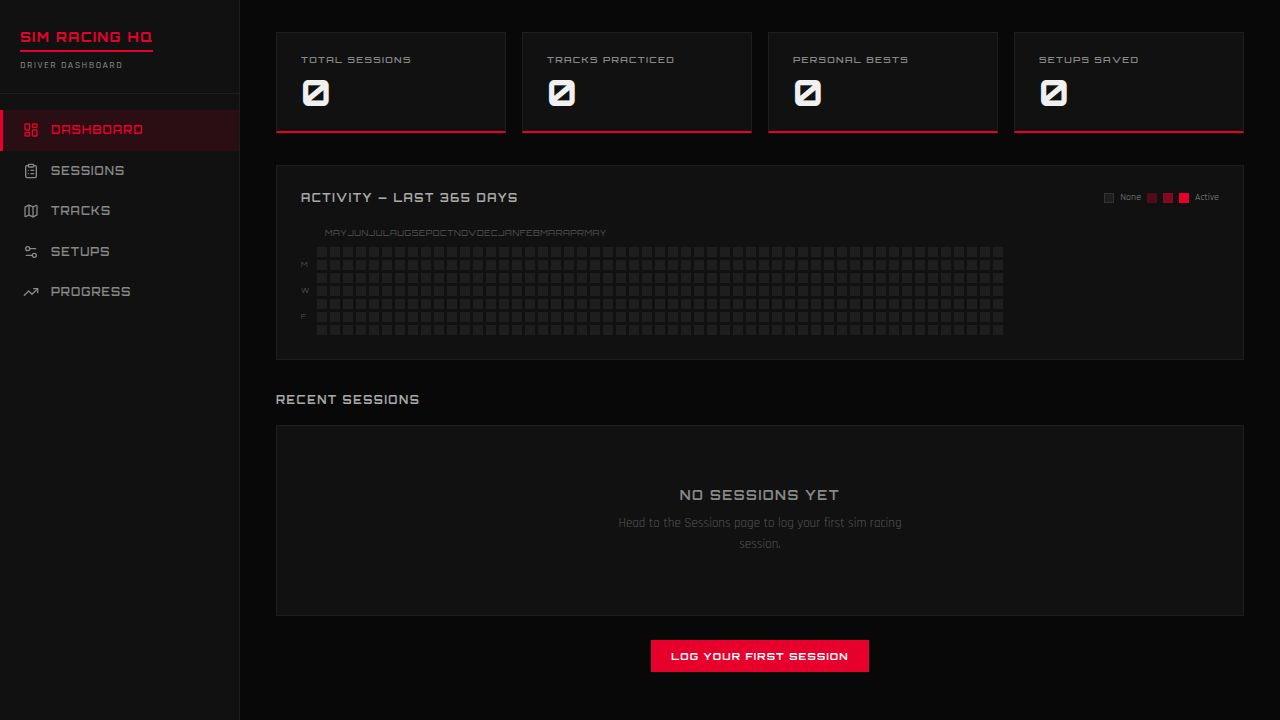
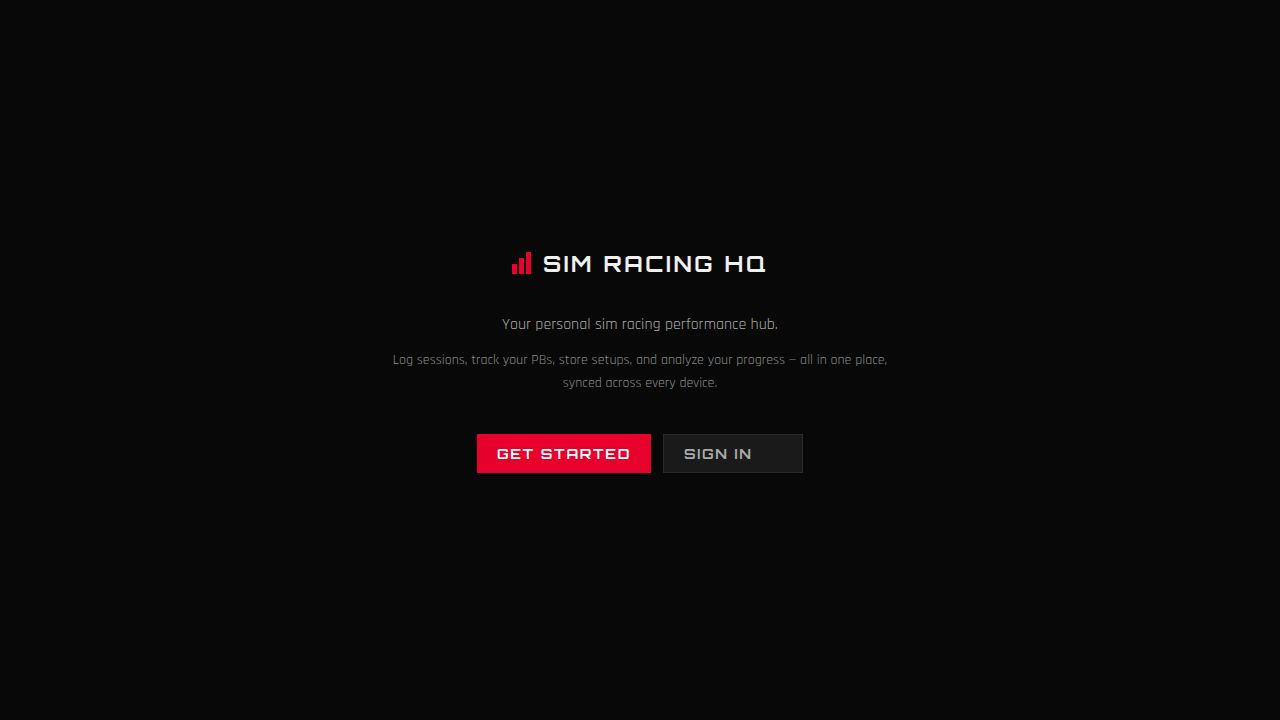
Improve dashboard readability and chart display accuracy
Update CSS variables for better text contrast, adjust heatmap month label spacing for correct alignment, and modify chart Y-axis tick formatting to display time more concisely.

Replit-Commit-Author: Agent
Replit-Commit-Session-Id: 946ef679-a04e-4fe0-ad1d-e3ec7c756e85
Replit-Commit-Checkpoint-Type: full_checkpoint
Replit-Commit-Event-Id: 21ec5ce6-c5e8-46da-825c-cfd3e9d6c388
Replit-Commit-Screenshot-Url: https://storage.googleapis.com/screenshot-production-us-central1/52d5f69d-7eeb-41dd-bf30-112a89703de6/946ef679-a04e-4fe0-ad1d-e3ec7c756e85/c50dyeX
Replit-Helium-Checkpoint-Created: true

diff --git a/artifacts/sim-racing-hq/src/pages/Dashboard.tsx b/artifacts/sim-racing-hq/src/pages/Dashboard.tsx
@@ -122,18 +122,22 @@ export default function Dashboard({ setPage }: DashboardProps) {
         </div>
 
         <div style={{ display: 'flex', marginBottom: 4, paddingLeft: 24 }}>
-          {monthLabels.map(({ label, col }) => (
-            <div key={`${label}-${col}`} style={{ position: 'relative', minWidth: 13 }}>
-              <span style={{
-                fontFamily: 'var(--font-display)',
-                fontSize: 8,
-                color: 'var(--gray)',
-                letterSpacing: '0.08em',
-                textTransform: 'uppercase',
-                whiteSpace: 'nowrap',
-              }}>{label}</span>
-            </div>
-          ))}
+          {monthLabels.map(({ label, col }, idx) => {
+            const nextCol = monthLabels[idx + 1]?.col ?? cells.length;
+            const spanWidth = (nextCol - col) * 13;
+            return (
+              <div key={`${label}-${col}`} style={{ width: spanWidth, flexShrink: 0, overflow: 'hidden' }}>
+                <span style={{
+                  fontFamily: 'var(--font-display)',
+                  fontSize: 8,
+                  color: 'var(--gray)',
+                  letterSpacing: '0.08em',
+                  textTransform: 'uppercase',
+                  whiteSpace: 'nowrap',
+                }}>{label}</span>
+              </div>
+            );
+          })}
         </div>
 
         <div className="heatmap-grid">

diff --git a/artifacts/sim-racing-hq/src/pages/Progress.tsx b/artifacts/sim-racing-hq/src/pages/Progress.tsx
@@ -14,6 +14,13 @@ function formatLapTime(seconds: number): string {
   return `${mins}:${parseFloat(secs) < 10 ? '0' : ''}${secs}`;
 }
 
+function formatAxisTick(seconds: number): string {
+  if (!isFinite(seconds) || seconds === 0) return '';
+  const mins = Math.floor(seconds / 60);
+  const secs = Math.round(seconds - mins * 60);
+  return `${mins}:${secs < 10 ? '0' : ''}${secs}`;
+}
+
 interface TooltipProps {
   active?: boolean;
   payload?: { value: number; name: string; color: string }[];
@@ -142,17 +149,17 @@ export default function Progress() {
               <CartesianGrid stroke="#1E1E1E" strokeDasharray="0" />
               <XAxis
                 dataKey="date"
-                tick={{ fontFamily: 'var(--font-display)', fontSize: 8, fill: '#555', letterSpacing: '0.06em' }}
+                tick={{ fontFamily: 'var(--font-display)', fontSize: 8, fill: '#A8A8A8', letterSpacing: '0.06em' }}
                 axisLine={{ stroke: '#1E1E1E' }}
                 tickLine={false}
               />
               <YAxis
                 domain={[minY, maxY]}
-                tickFormatter={formatLapTime}
-                tick={{ fontFamily: 'var(--font-mono)', fontSize: 10, fill: '#555' }}
+                tickFormatter={formatAxisTick}
+                tick={{ fontFamily: 'var(--font-mono)', fontSize: 10, fill: '#A8A8A8' }}
                 axisLine={{ stroke: '#1E1E1E' }}
                 tickLine={false}
-                width={70}
+                width={56}
               />
               <Tooltip content={<LapTooltip />} />
               <Line
@@ -199,16 +206,16 @@ export default function Progress() {
               <CartesianGrid stroke="#1E1E1E" vertical={false} />
               <XAxis
                 dataKey="date"
-                tick={{ fontFamily: 'var(--font-display)', fontSize: 8, fill: '#555', letterSpacing: '0.06em' }}
+                tick={{ fontFamily: 'var(--font-display)', fontSize: 8, fill: '#A8A8A8', letterSpacing: '0.06em' }}
                 axisLine={{ stroke: '#1E1E1E' }}
                 tickLine={false}
               />
               <YAxis
-                tickFormatter={formatLapTime}
-                tick={{ fontFamily: 'var(--font-mono)', fontSize: 10, fill: '#555' }}
+                tickFormatter={formatAxisTick}
+                tick={{ fontFamily: 'var(--font-mono)', fontSize: 10, fill: '#A8A8A8' }}
                 axisLine={{ stroke: '#1E1E1E' }}
                 tickLine={false}
-                width={70}
+                width={56}
               />
               <Tooltip content={<LapTooltip />} />
               <Bar dataKey="best" name="Best" fill="#00D2BE" />

diff --git a/artifacts/sim-racing-hq/src/index.css b/artifacts/sim-racing-hq/src/index.css
@@ -14,9 +14,9 @@
   --red-dim: rgba(232, 0, 45, 0.12);
   --red-glow: rgba(232, 0, 45, 0.35);
   --white: #F0F0F0;
-  --gray: #555555;
-  --gray-mid: #888888;
-  --gray-light: #AAAAAA;
+  --gray: #777777;
+  --gray-mid: #A8A8A8;
+  --gray-light: #C8C8C8;
   --teal: #00D2BE;
   --yellow: #FFF200;
   --green: #39B54A;